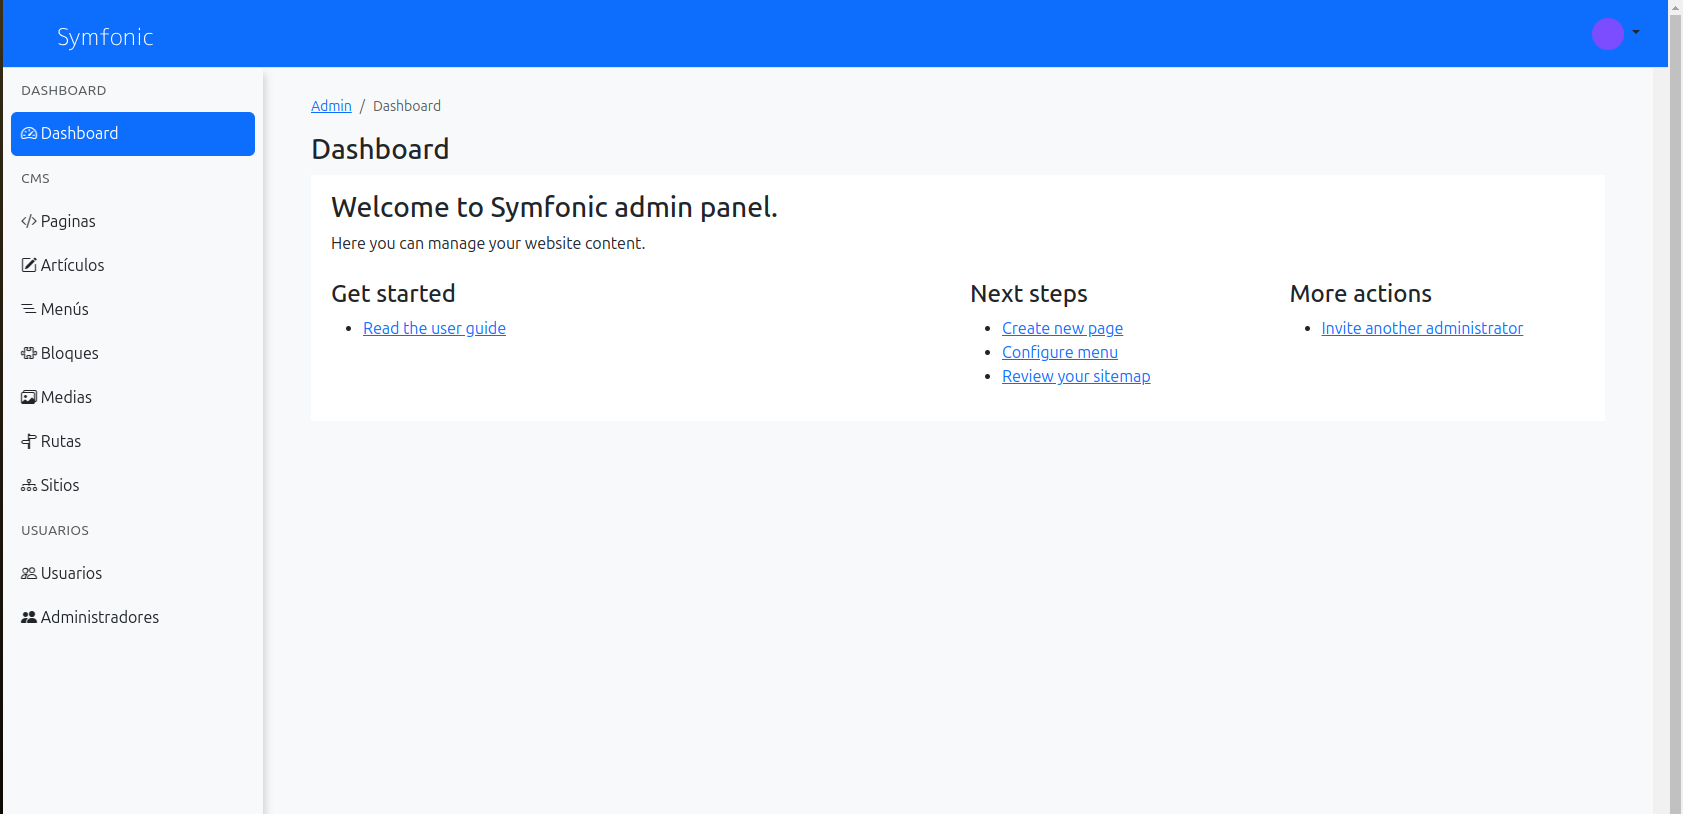
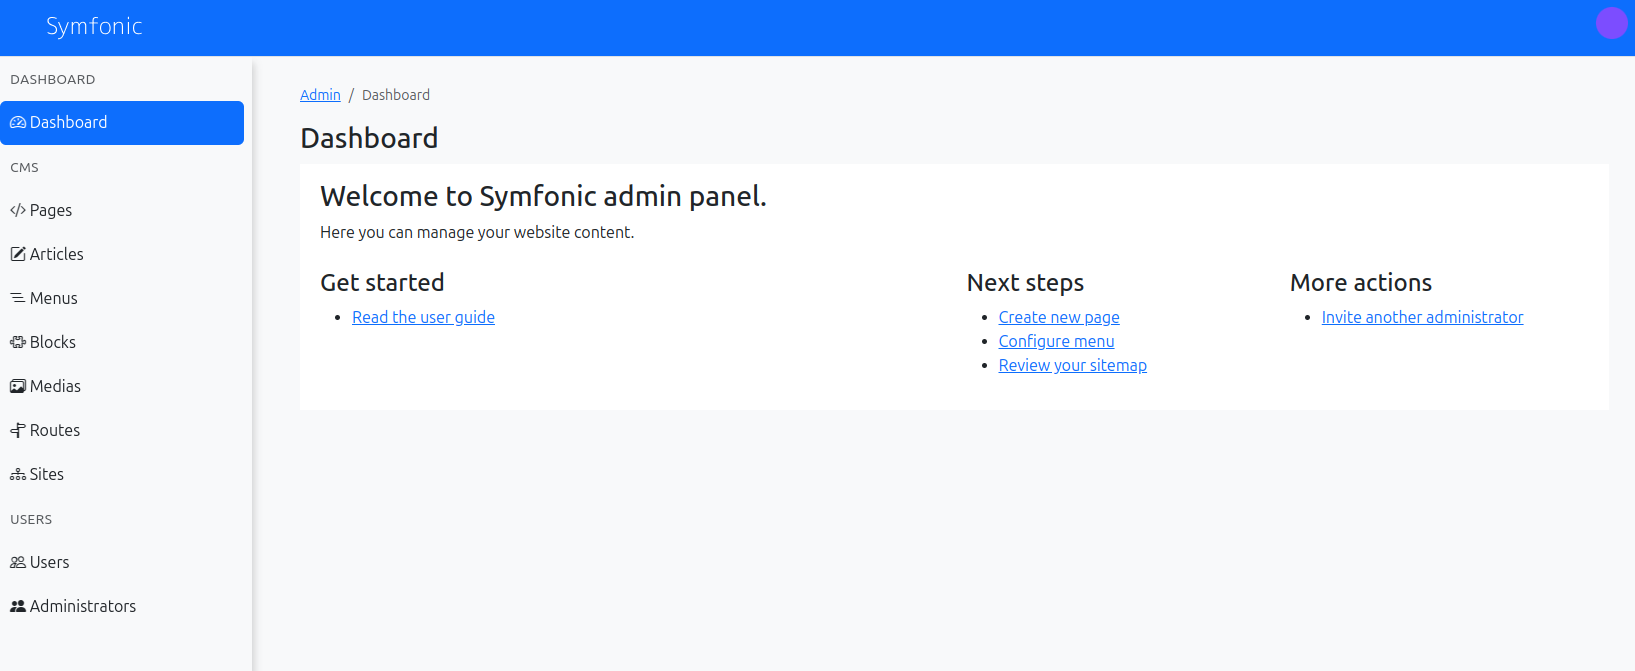
add standalone

diff --git a/standalone/install-symfonic-standalone.md b/standalone/install-symfonic-standalone.md
@@ -91,11 +91,11 @@ sudo apt install npm
 
 ## Usage
 
-Open your browser and go to https://127.0.0.1:8000/app/es/login.
+Open your browser and go to https://127.0.0.1:8000/app/en/login.
 
 1. Log in with the email and password you created in the previous step.
 ![login.png](.files/login.png)
 
-2. You are done! You can now start working with Symfonic Standalone at https://127.0.0.1:8000/admin/es/.
+2. You are done! You can now start working with Symfonic Standalone at https://127.0.0.1:8000/admin/en/.
 ![dashboard.png](.files/dashboard.png)
 
